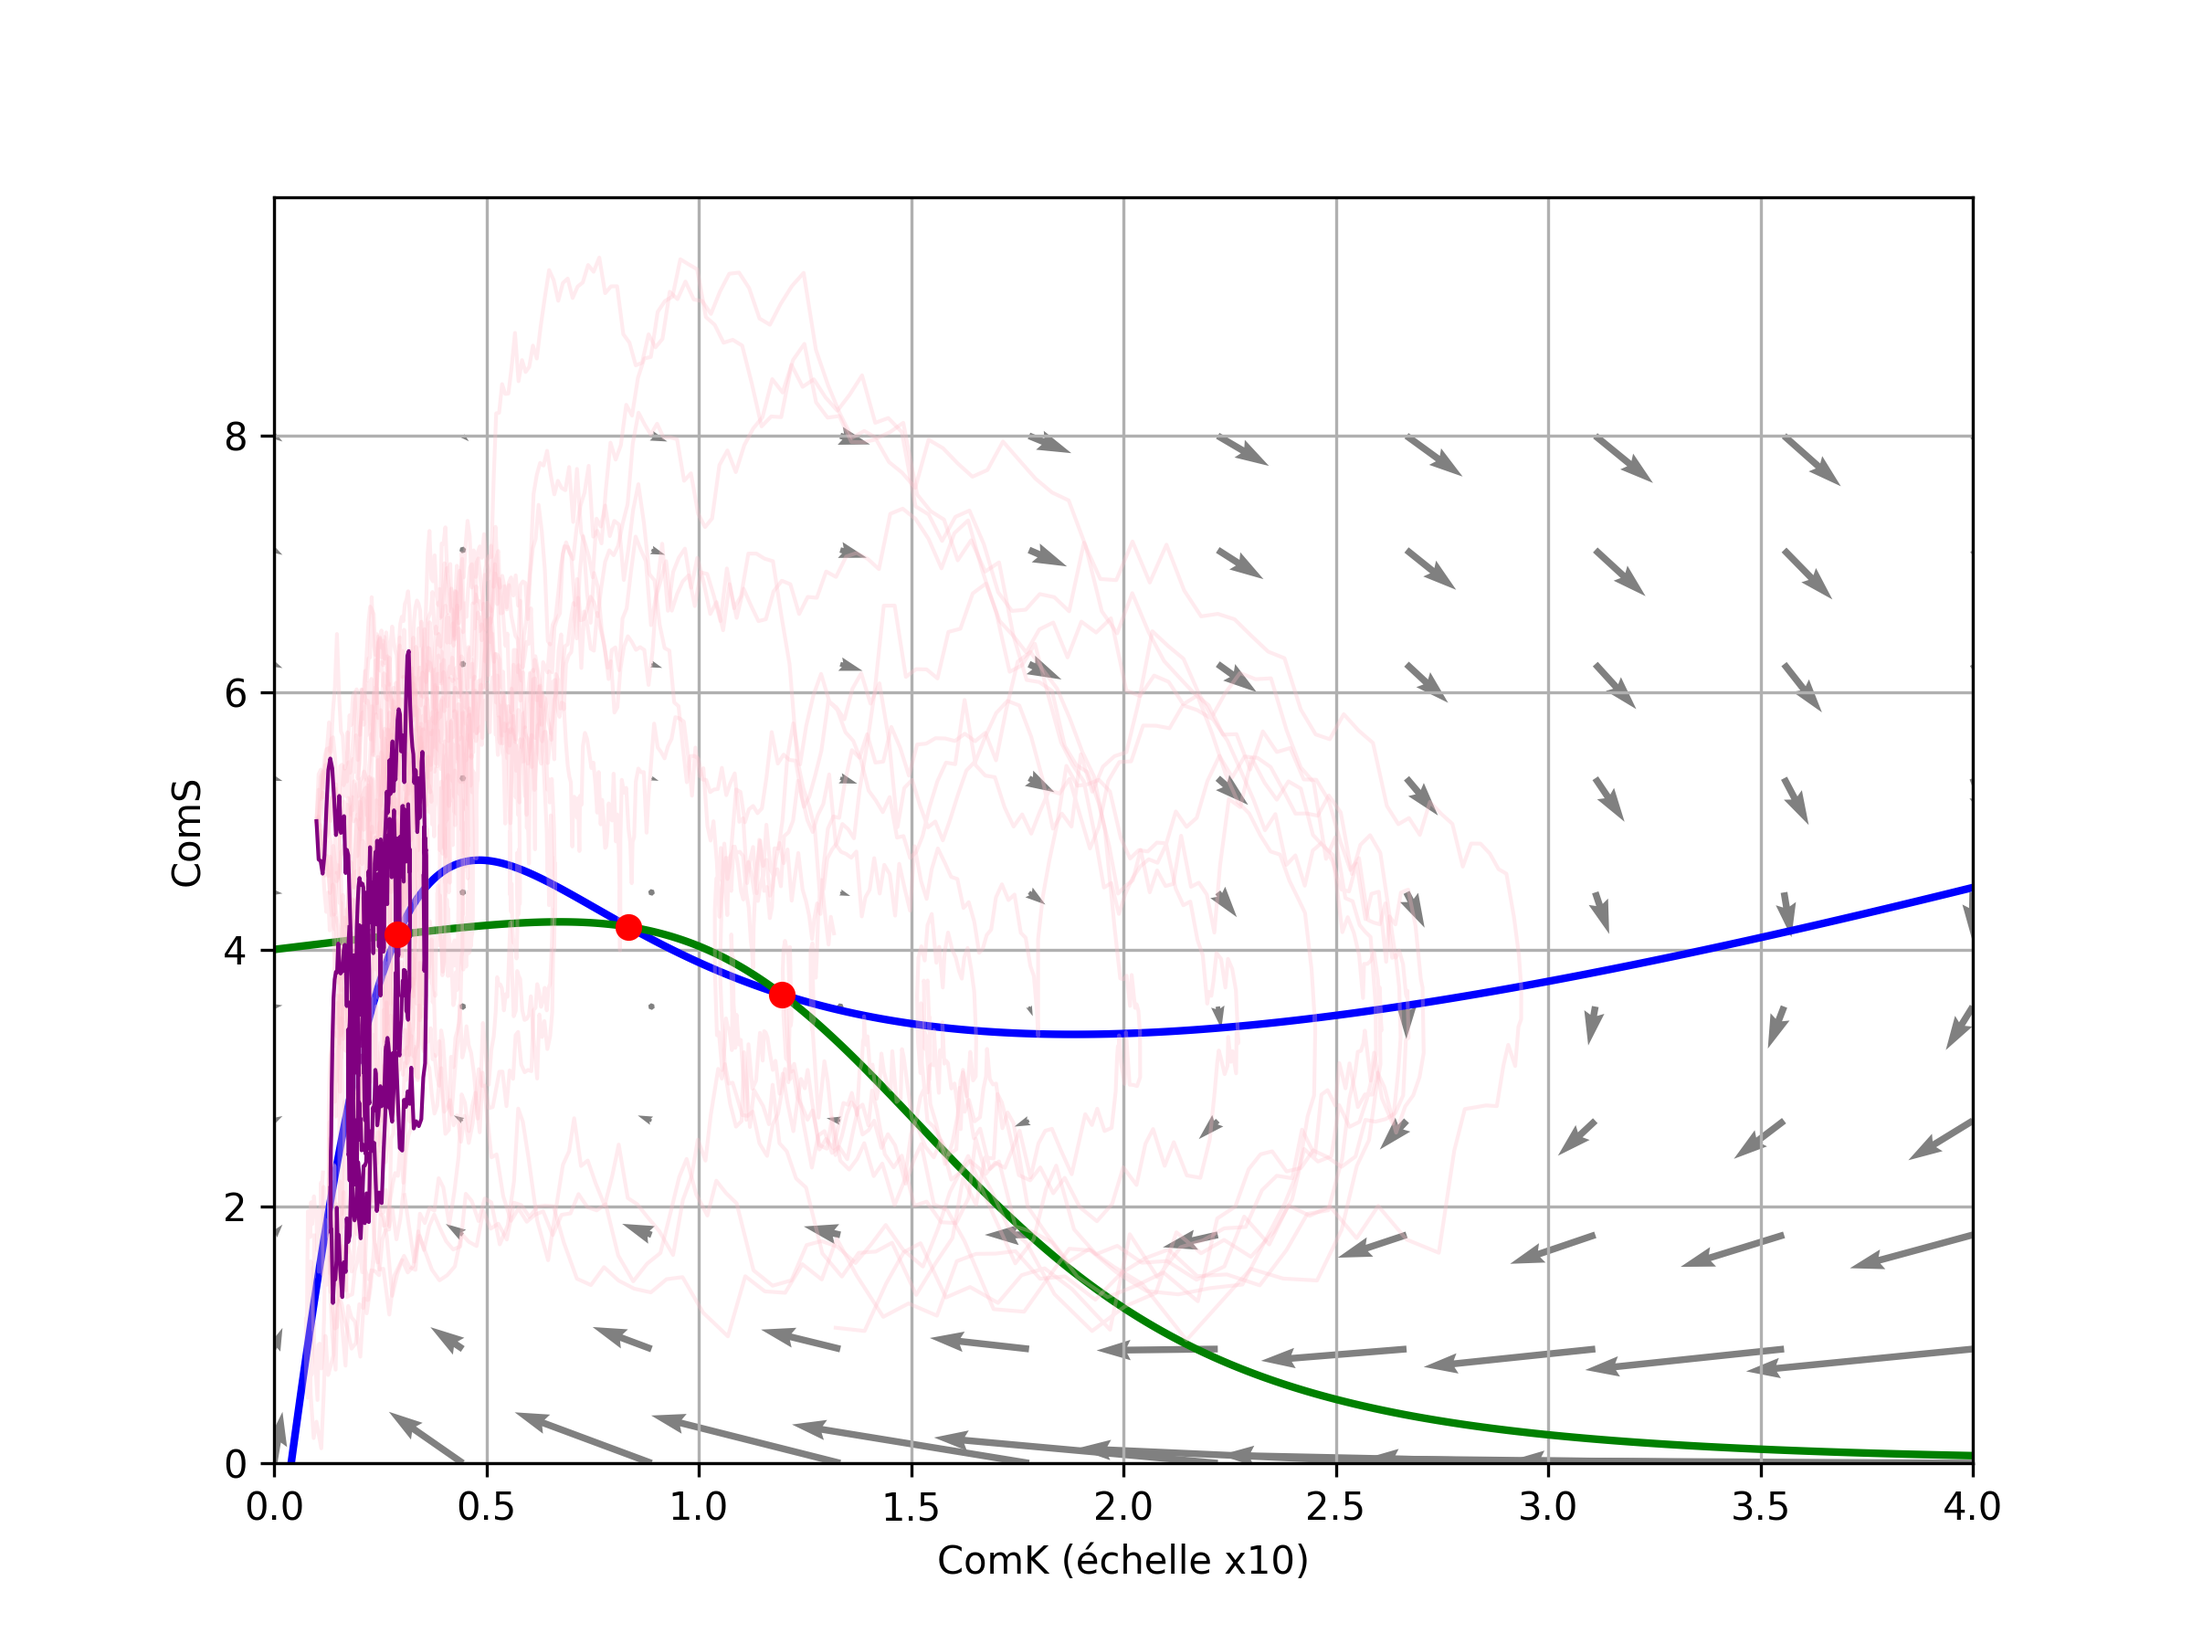
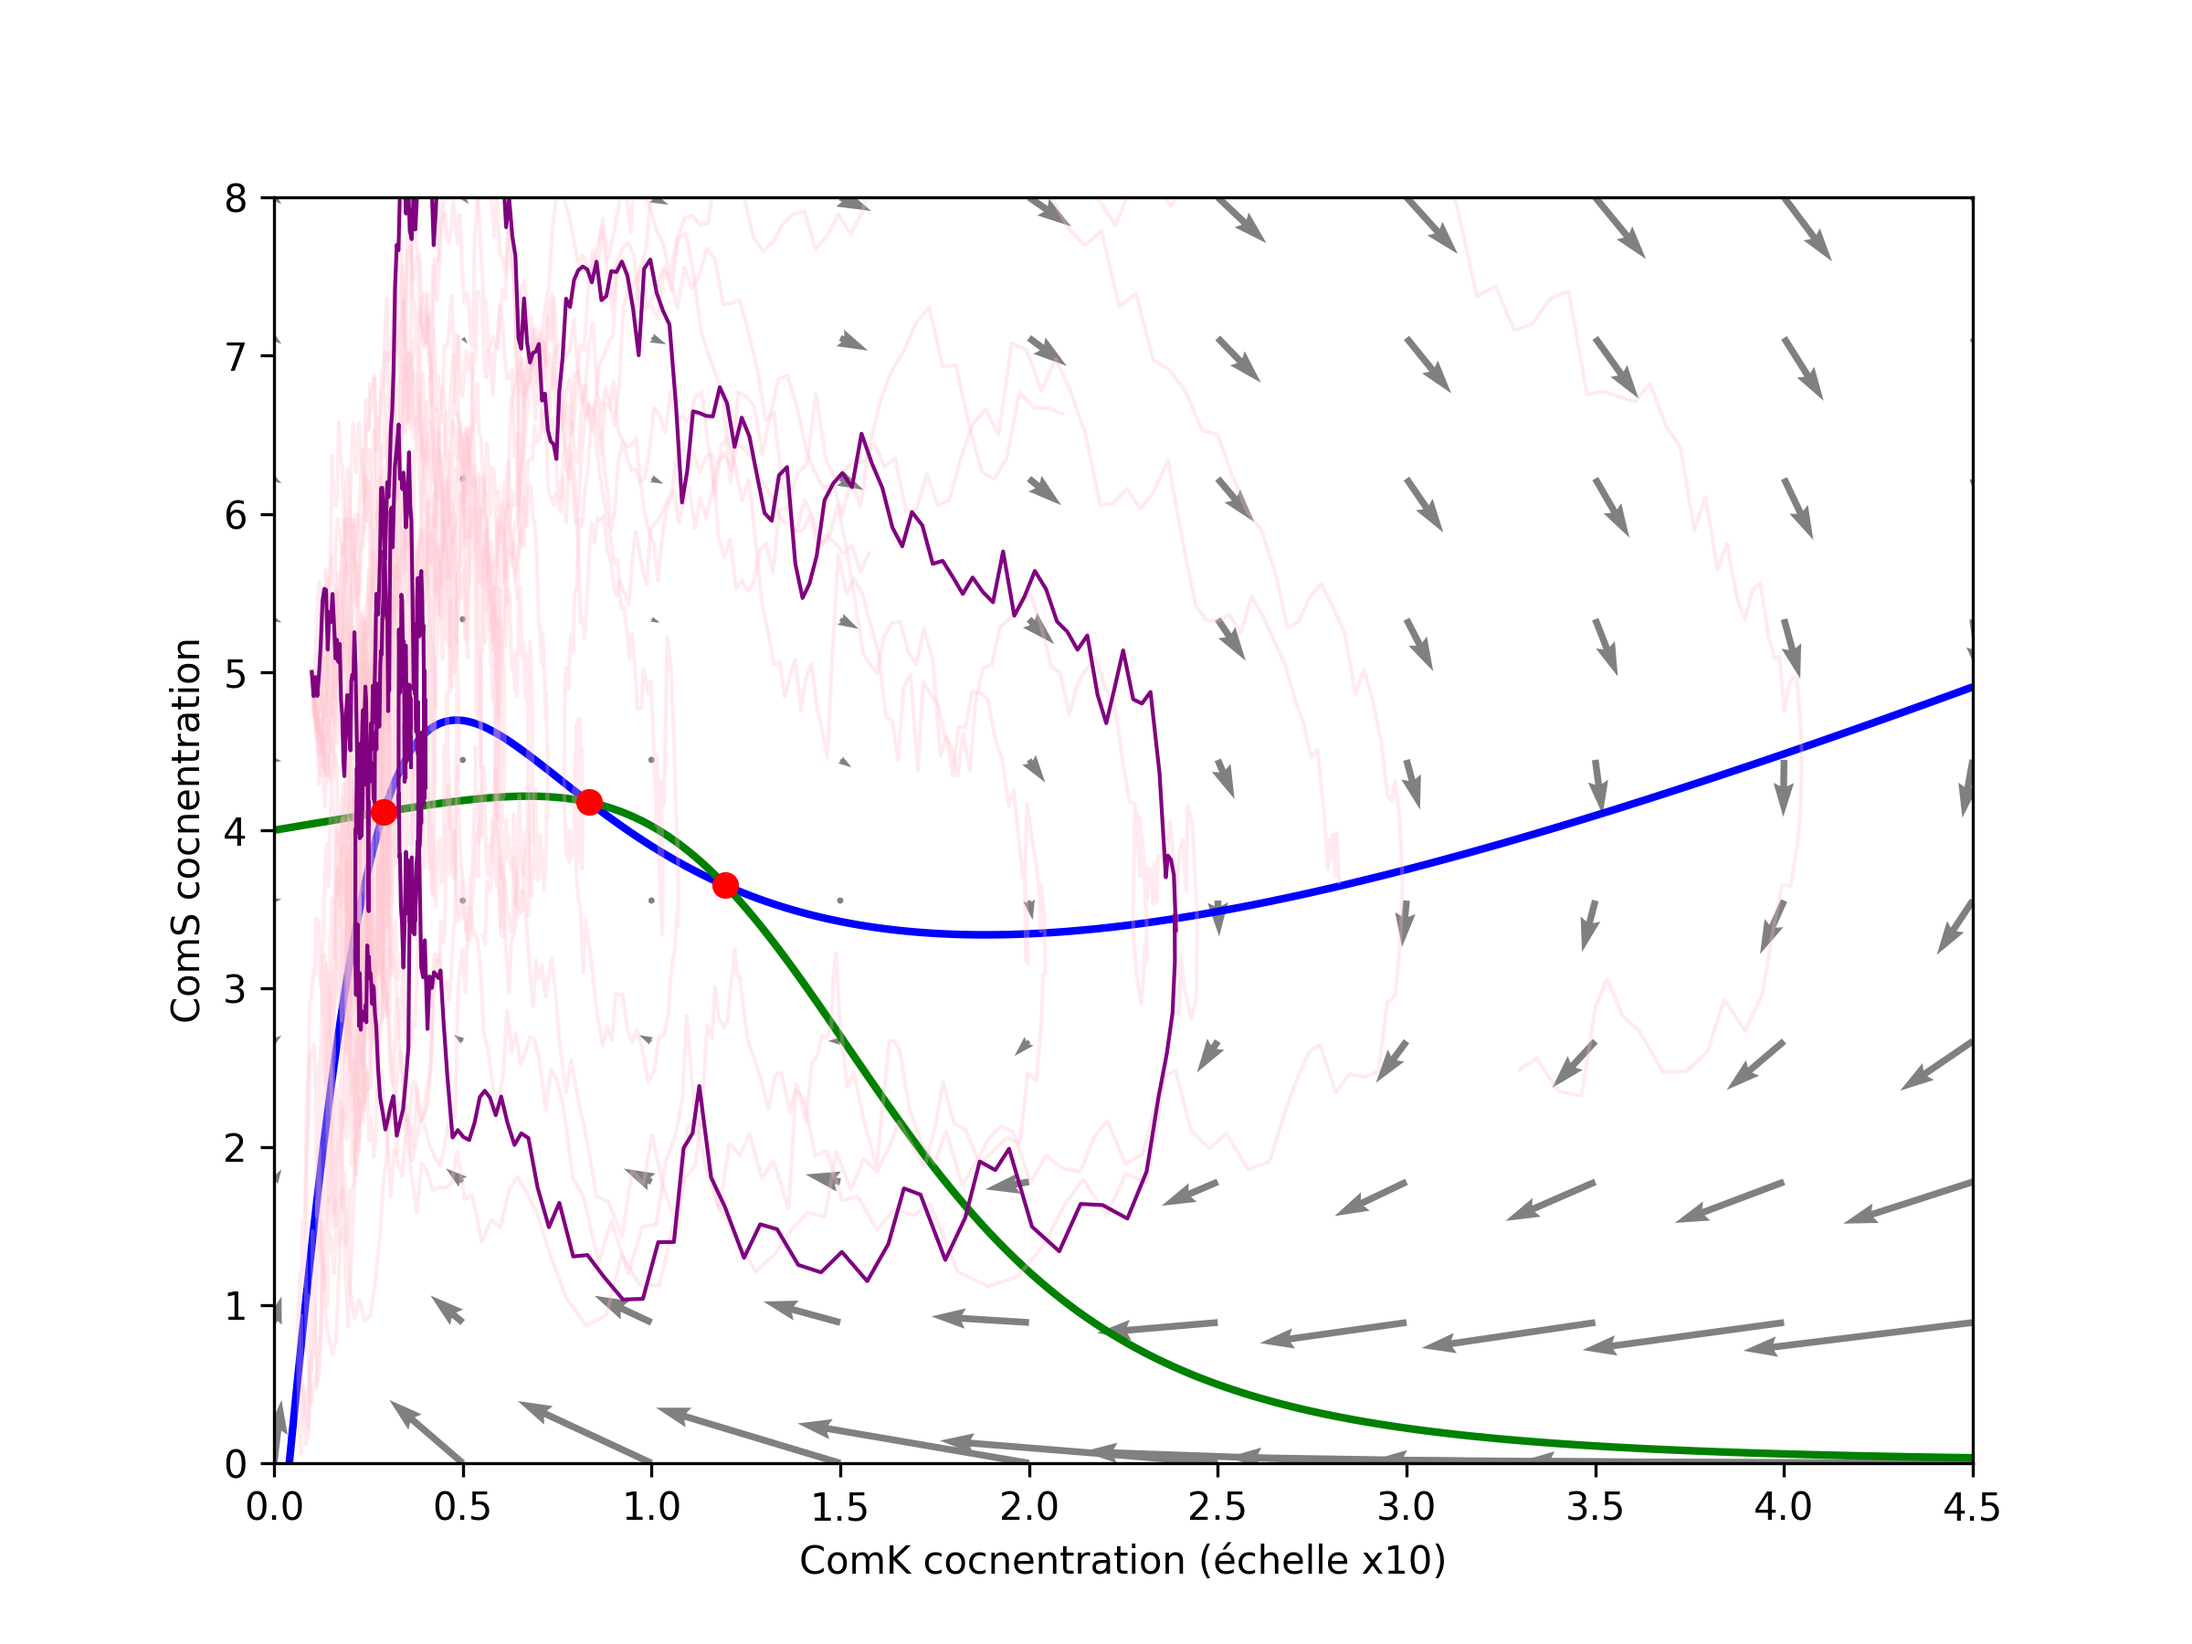
figure 4 dernière version

diff --git a/Figure_4/figure4.py b/Figure_4/figure4.py
@@ -22,18 +22,18 @@ def simulate_system(bk, bs, k0, s0, t_end, dt):
     s = np.zeros(n)
     k[0] = k0
     s[0] = s0
-    noise_amplitude = 0.5
+    noise_amplitude = 0.5 # Variable de bruit
 
     for i in range(1, n):
         dk_dt = ComK(k[i-1], s[i-1], bk)
         ds_dt = ComS(k[i-1], s[i-1], bs)
-        noise_s = np.random.normal(0, noise_amplitude)
+        noise_s = np.random.normal(0, noise_amplitude) # Bruit 
         k[i] = k[i-1] + dk_dt * dt
-        s[i] = s[i-1] + ds_dt * dt + noise_s * np.sqrt(dt)
+        s[i] = s[i-1] + ds_dt * dt + noise_s * np.sqrt(dt) # Bruit de Wiener
 
     return k, s, t
 
-def equations(vars):
+def equations(vars): # Sert pour affichage des intersections
     k, s = vars
     return [ComK(k, s, BK), ComS(k, s, BS)]
 
@@ -45,9 +45,12 @@ initial_guesses = [
 ]
 
 def plot_nullclines_and_trajectory(k, s, t_end, dt, mult_K):
-    k_vals = np.linspace(0, 4, 1000)
+    
+    k_vals = np.linspace(0, 0.45*mult_K, 1000) # Prend 1000 valeur entre 0 et 4.5
     s_vals = np.linspace(0, 8, 1000)
-    k_grid, s_grid = np.meshgrid(k_vals / mult_K, s_vals)
+    
+    k_grid, s_grid = np.meshgrid(k_vals / mult_K, s_vals) # Diviser par mult_K pour que le calcul soit fait dans les bonnes unités (4.5 --> 0.45)
+    
     dk_dt = ComK(k_grid, s_grid, BK)
     ds_dt = ComS(k_grid, s_grid, BS)
 
@@ -55,7 +58,7 @@ def plot_nullclines_and_trajectory(k, s, t_end, dt, mult_K):
     plt.contour(k_grid * mult_K, s_grid, dk_dt, levels=[0], colors='blue', linewidths=2)
     plt.contour(k_grid * mult_K, s_grid, ds_dt, levels=[0], colors='green', linewidths=2)
 
-    k_vector = np.linspace(0, 4, 10)
+    k_vector = np.linspace(0, 0.45*mult_K, 10)
     s_vector = np.linspace(0, 8, 10)
     k_vec, s_vec = np.meshgrid(k_vector / mult_K, s_vector)
     dk_dt_vec = ComK(k_vec, s_vec, BK)
@@ -71,13 +74,15 @@ def plot_nullclines_and_trajectory(k, s, t_end, dt, mult_K):
     # Tracer la trajectoire principale en violet
     plt.plot(k * mult_K, s, color='purple', linewidth=1)
 
-    intersections = []
+    
+    # Calcule quand ComK et ComS sont egaux dans les environs des trois positions donner (guess)
+    intersection_list = []
     for guess in initial_guesses:
         intersection = fsolve(equations, guess)
-        intersections.append(intersection)
+        intersection_list.append(intersection)
     
     
-    for intersection in intersections:
+    for intersection in intersection_list:
         plt.plot(intersection[0] * 10, intersection[1], 'ro')
 
     plt.xlabel('ComK cocnentration (échelle x10)')
